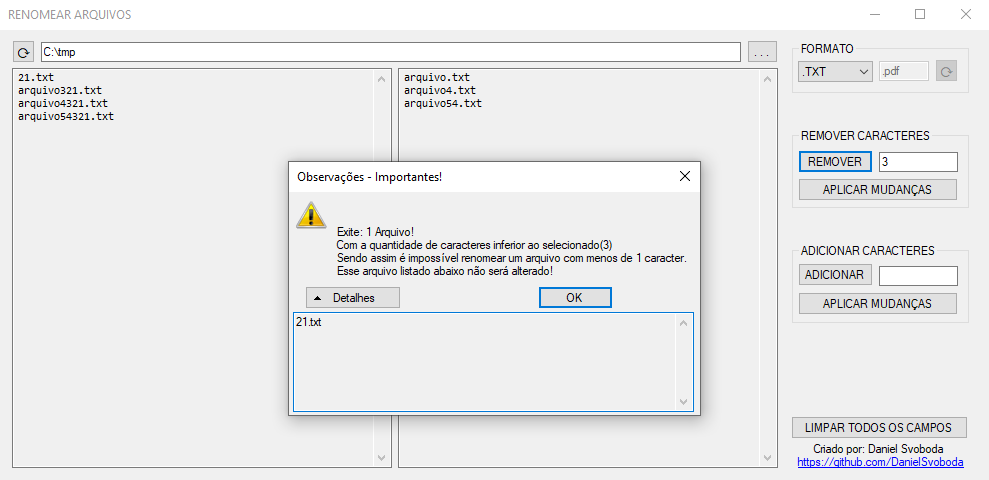
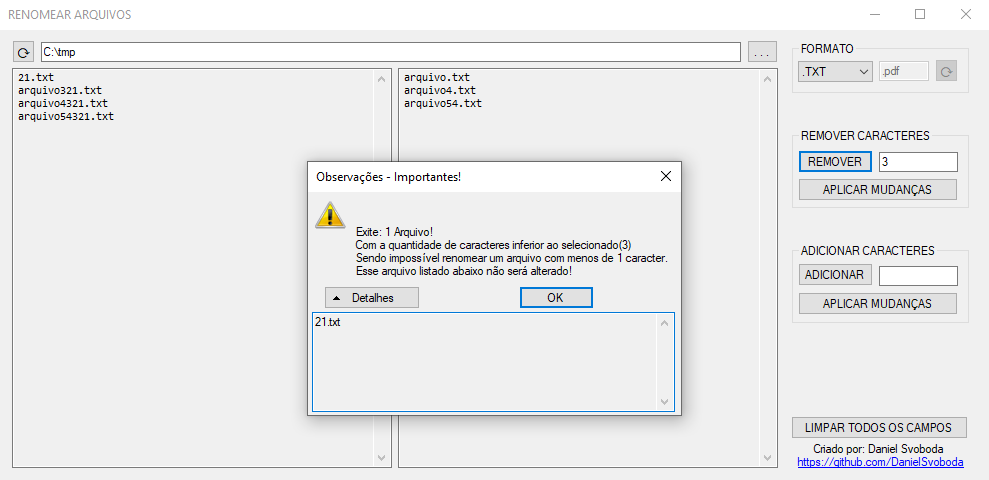
OK

Changed region(s): [[0.273, 0.3438, 0.728, 0.875]]

diff --git a/Form1.cs b/Form1.cs
@@ -52,7 +52,7 @@ namespace Renomear_Arquivos
             // Valida se o diretório é valido
             if (textBox_diretorio.Text == "" || Path.IsPathRooted(textBox_diretorio.Text) == false)                       
             {
-                MessageBox.Show("c um diretório valido!");
+                MessageBox.Show("Escolha um diretório valido!");
                 return;
             }
                       
@@ -256,13 +256,13 @@ namespace Renomear_Arquivos
                 }
 
                 var aux1 = "Exite: 1 Arquivo!\nCom a quantidade de caracteres inferior ao selecionado(" + textBox_quant_remover_caracteres.Text + ")" +
-                    "\nSendo assim é impossível renomear um arquivo com menos de 1 caracter." +
+                    "\nSendo impossível renomear um arquivo com menos de 1 caracter." +
                     "\nEsse arquivo listado abaixo não será alterado!";
 
                 if (quant_caracter_inferior > 1)
                 {
                     aux1 = "Existem: " + quant_caracter_inferior + " Arquivos!\nCom a quantidade de caracteres inferior ao selecionado( " + textBox_quant_remover_caracteres.Text + " )" +
-                    "\nSendo assim é impossível renomear um arquivo com menos de 1 caracter." +
+                    "\nSendo impossível renomear um arquivo com menos de 1 caracter." +
                     "\nEsses arquivos listados abaixo não serão alterados!";
                 }
 
